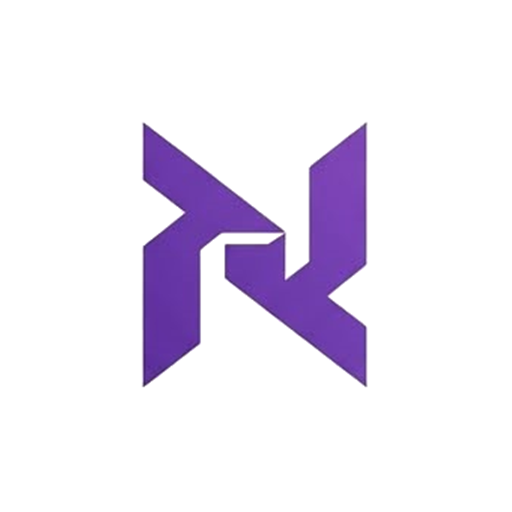
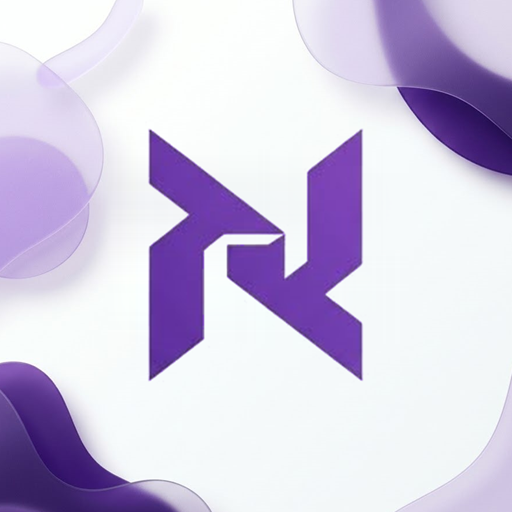
Ícone Nuvix Hub com as formas roxas da arte nova

diff --git a/app/obrigado/page.tsx b/app/obrigado/page.tsx
@@ -35,7 +35,7 @@ export default function Obrigado() {
   return (
     <main className="flex min-h-screen flex-col items-center justify-center bg-white px-6 text-center">
       <div className="h-14 w-14 overflow-hidden rounded-2xl shadow-lg shadow-purple-200">
-        <Image src="/logo-nuvixhub.png" alt="Nuvix" width={56} height={56} className="h-full w-full object-cover" />
+        <Image src="/nuvixhub-icone.png" alt="Nuvix" width={56} height={56} className="h-full w-full object-cover" />
       </div>
       <div className="mt-8 grid h-16 w-16 place-items-center rounded-full bg-emerald-50 text-emerald-500">
         <CheckCircle2 size={32} />

diff --git a/app/privacidade/page.tsx b/app/privacidade/page.tsx
@@ -5,7 +5,7 @@ function LogoSmall() {
   return (
     <Link href="/" className="flex items-center gap-3">
       <div className="h-9 w-9 overflow-hidden rounded-xl shadow-md shadow-purple-200">
-        <Image src="/logo-nuvixhub.png" alt="Nuvix" width={36} height={36} className="h-full w-full object-cover" />
+        <Image src="/nuvixhub-icone.png" alt="Nuvix" width={36} height={36} className="h-full w-full object-cover" />
       </div>
       <p className="whitespace-nowrap text-lg leading-none tracking-tight text-[#2B2A36]">
         <span className="font-extrabold">Nuvix</span> <span className="font-medium">Hub</span>

diff --git a/app/termos/page.tsx b/app/termos/page.tsx
@@ -5,7 +5,7 @@ function LogoSmall() {
   return (
     <Link href="/" className="flex items-center gap-3">
       <div className="h-9 w-9 overflow-hidden rounded-xl shadow-md shadow-purple-200">
-        <Image src="/logo-nuvixhub.png" alt="Nuvix" width={36} height={36} className="h-full w-full object-cover" />
+        <Image src="/nuvixhub-icone.png" alt="Nuvix" width={36} height={36} className="h-full w-full object-cover" />
       </div>
       <p className="whitespace-nowrap text-lg leading-none tracking-tight text-[#2B2A36]">
         <span className="font-extrabold">Nuvix</span> <span className="font-medium">Hub</span>

diff --git a/app/page.tsx b/app/page.tsx
@@ -24,7 +24,7 @@ function Logo() {
   return (
     <div className="flex items-center gap-3">
       <div className="h-11 w-11 overflow-hidden rounded-2xl shadow-lg shadow-purple-200">
-        <Image src="/logo-nuvixhub.png" alt="Nuvix" width={44} height={44} className="h-full w-full object-cover" />
+        <Image src="/nuvixhub-icone.png" alt="Nuvix" width={44} height={44} className="h-full w-full object-cover" />
       </div>
       <p className="whitespace-nowrap text-2xl leading-none tracking-tight text-[#2B2A36]">
         <span className="font-extrabold">Nuvix</span> <span className="font-medium">Hub</span>
